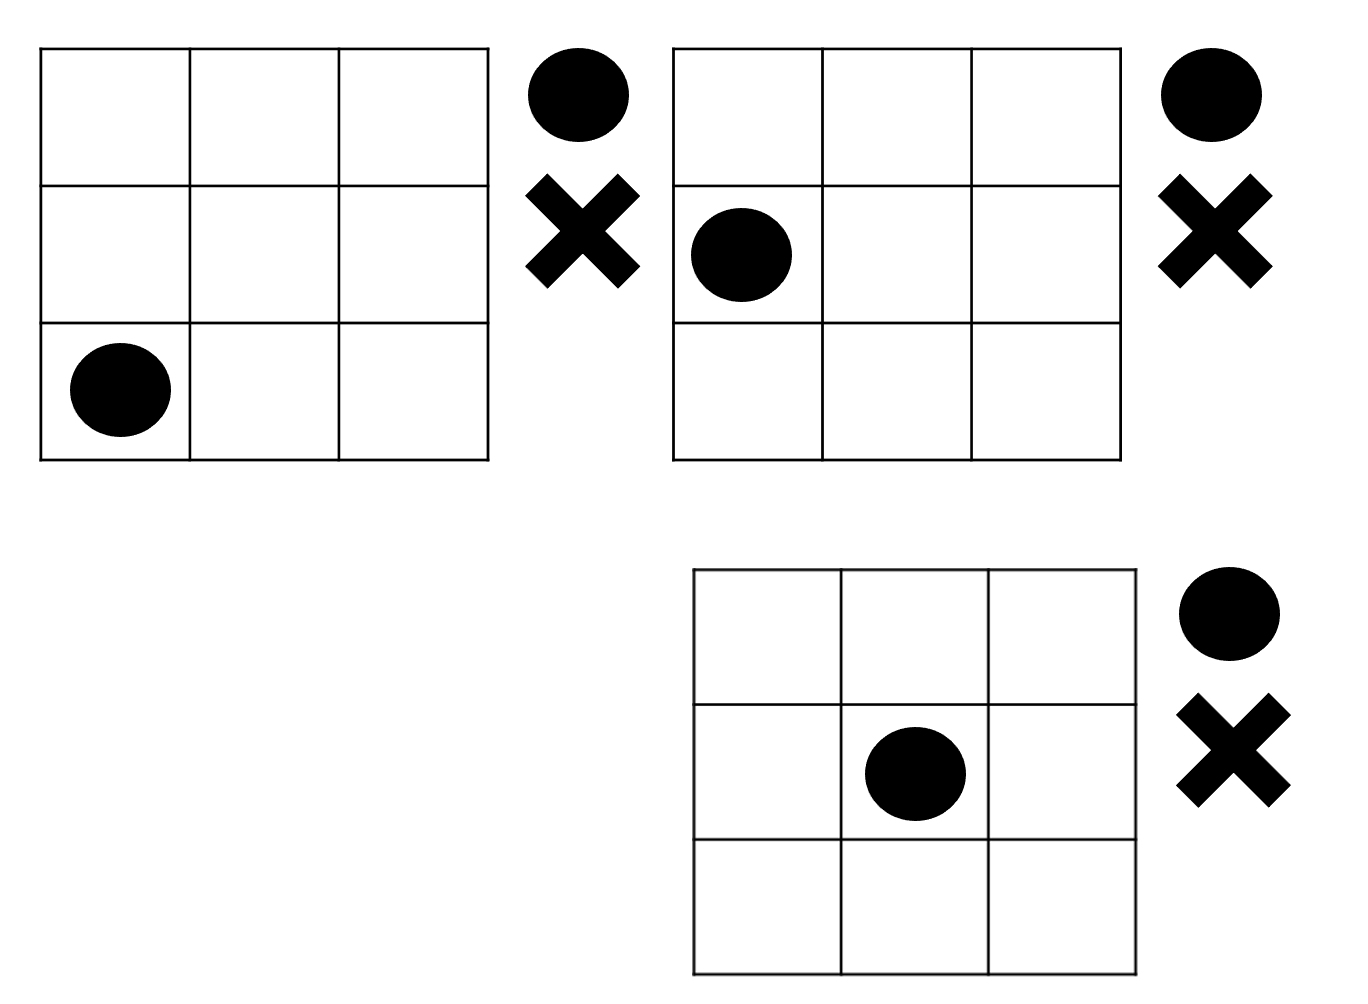
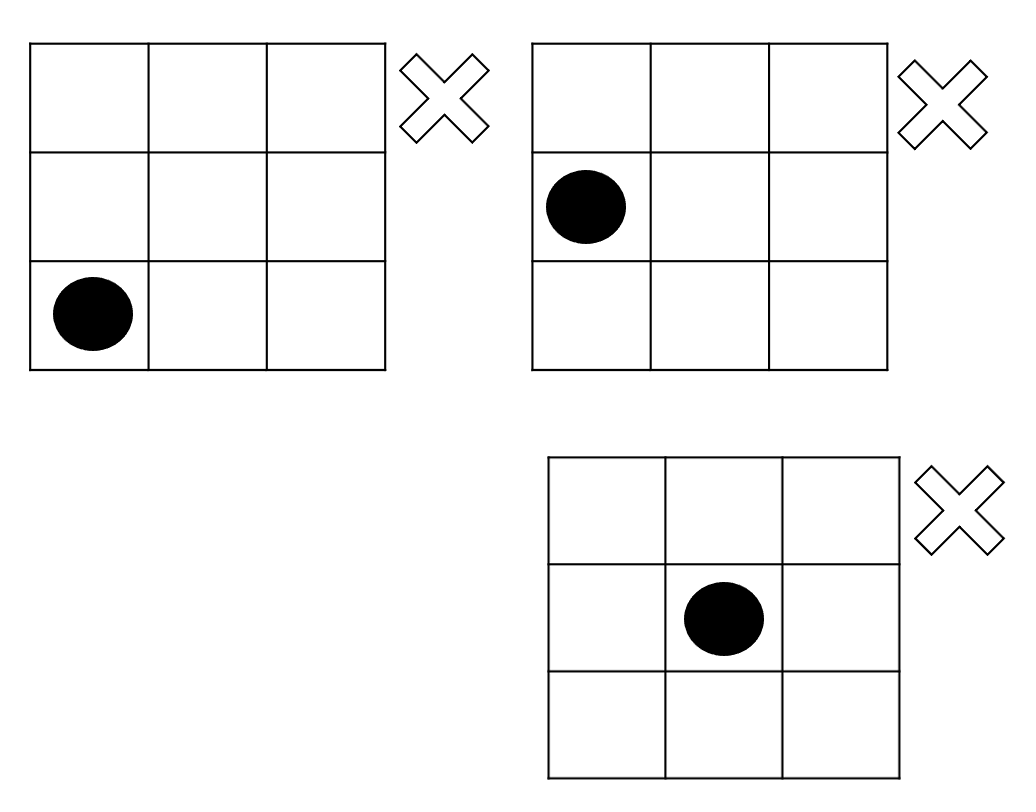
a achive

Changed region(s): [[0.0309, 0.0308, 0.9575, 0.4618], [0.4942, 0.5542, 0.9884, 0.9852]]

diff --git a/MCTS-tutorial.md b/MCTS-tutorial.md
@@ -33,6 +33,8 @@ Here we try to explain what is state. The state is the representation informatio
 <img src="media/tic-tac-toe-states.png" alt="drawing" width="400"/>
 </p>
 
+Note that the white "X" or "O" indicates the current turn for two players.
+
 Given a state, we have one or multiple choices of available actions corresponding to the state. Let us take the first state in the above picture as example. The available actions can be listed as following:
 <!--
 ![dsfdf](media/tic-tac-toe-case1.png)-->
@@ -81,6 +83,38 @@ Let us try to foresee by planning the move.
 <img src="media/tree.png" alt="drawing" width="400"/>
 </p>
 
-In the above picture, we illustrate the planning using a tree structure. Since the tree is large, only a part of the entire tree is shown in the picture.
+In the above picture, we illustrate the planning using a tree structure. Since the tree is large, only a part of the entire tree is shown in the picture. To simplfy the representation of above picture, we use the following illustration, simply using nodes and edges.
+
+
+<p align="center">
+<img src="media/tree-representation.png" alt="drawing" width="800"/>
+</p>
+
+The node represent state and the edge represent available action. This allows us to analyse the resultant states of each action and its further consequence. Let us look deeper into the tree .
+
+<p align="center">
+<img src="media/tree-deep.png" alt="drawing" width="500"/>
+</p>
+
+As you might notice, each state has a blue number. The value means the winning probability of "O" given the current state (or the value in reinforcement learning). The above picture shows the deep tree with 3 steps looking ahead. 
+
+### How to traverse the tree
+
+So the next question might be how to jump from the parrent node to the child node. Since the blue number for each state means winning ratio of Player "O", the rules of tranverse is easily set as:
+
+- Maximize the winning ratios of "O" at the turn of "O".
+- Minimize the winning ratios of "O" at the turn of "X".
+
+Such a rule is known as "MinMax", which is a famous algorithm in game theory.
+
+<p align="center">
+<img src="media/minmax.png" alt="drawing" width="500"/>
+</p>
+
+Why do we try to minimize the winning ratios of "O" at the turn of "X"? Because we try to make the player "X", the opponent of "O", be "smart" on his decision. An analogy I like to think about is that people will tend to play against the opponent is better or at least the same with their own for chess play to improve their skill of playing chess. In general, "MinMax" algorithm or the rules of tranverse can impose some contraints for explorations that finds the optimal policy.
+
+### How to expand or "grow" the tree
+
+ After you tranverse the tree using "MinMax" algorithm, you will reach leaf nodes (the bottom of the tree). If you want to grow the tree to see a few more move ahead, you need to expand (or in other word "grow") the tree. 
 
 
